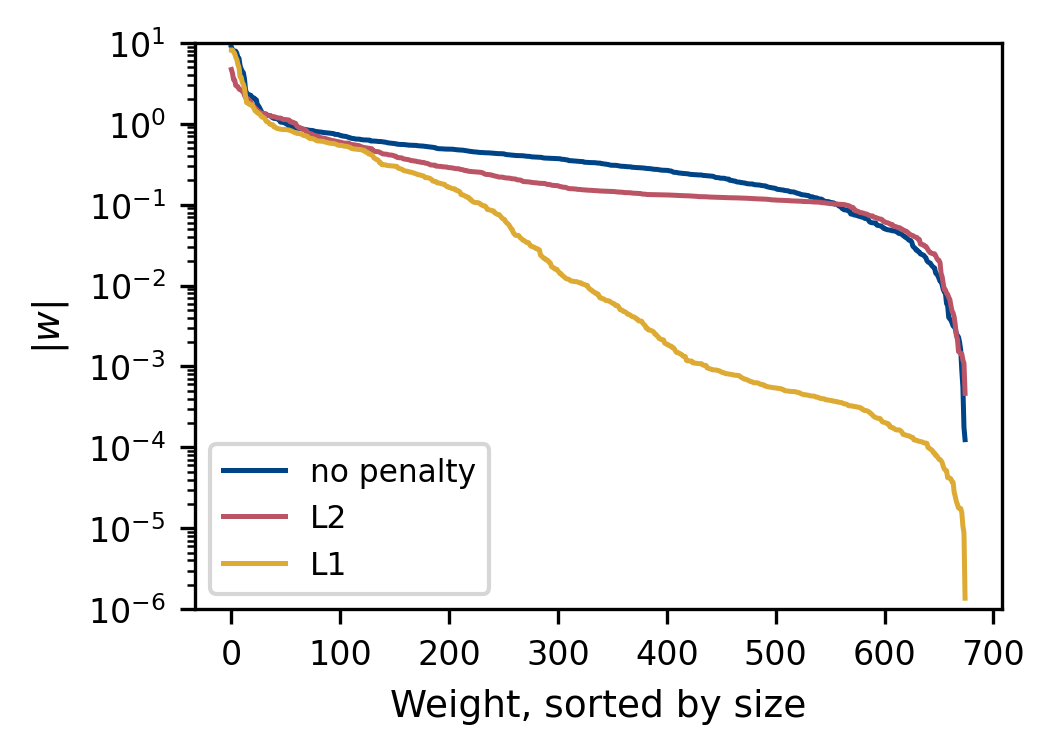
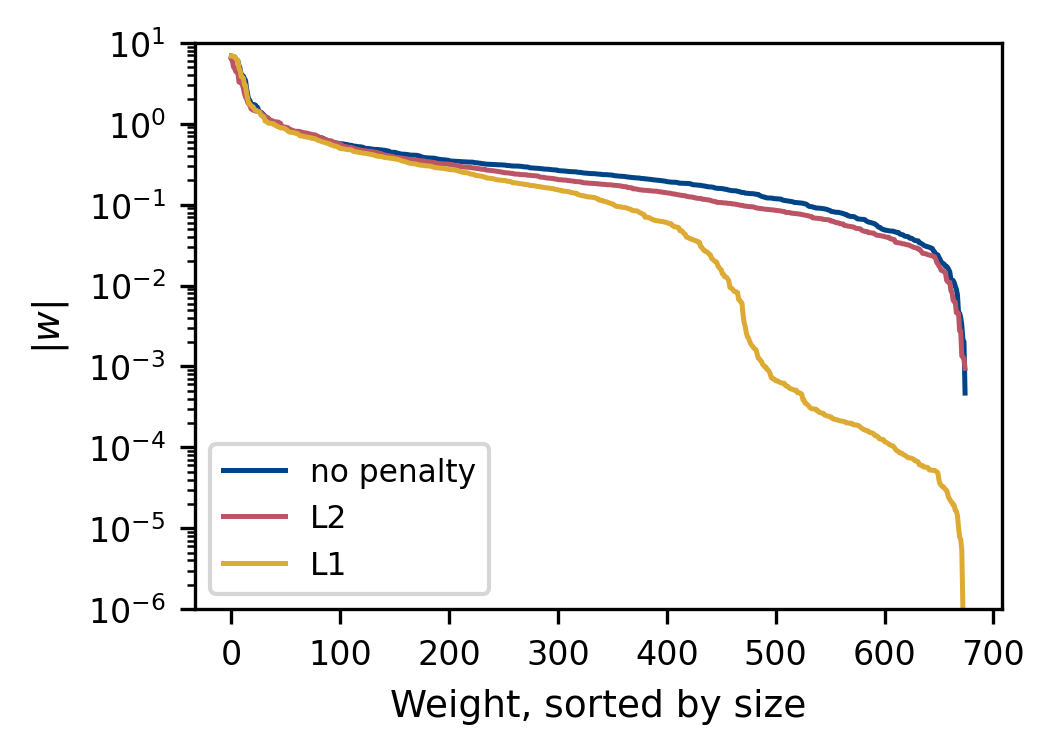
Ran again with gorrect gamma after changing it in cv_norms.py

diff --git a/parts/part_d/weights.py b/parts/part_d/weights.py
@@ -34,7 +34,7 @@ fig, ax = plt.subplots()
 for label, norm, lmbda, color in runs:
     net = NeuralNetwork(1, sizes, funcs, ders, mse, mse_der, lmbda=lmbda, norm=norm)
     net.train(x_train.reshape(-1, 1), y_train.reshape(-1, 1),
-              method="adam", gamma=1e-2, epochs=1000, batch_size=16)
+              method="adam", gamma=3e-3, epochs=1000, batch_size=16)  # gamma from the CV minimum
     W = np.abs(np.concatenate([W.ravel() for W, b in net.layers]))
     print(f"{label}: share of |w| < 1e-3: {np.mean(W < 1e-3):.2f}")
     ax.semilogy(np.sort(W)[::-1] + 1e-12, color=color, label=label)
